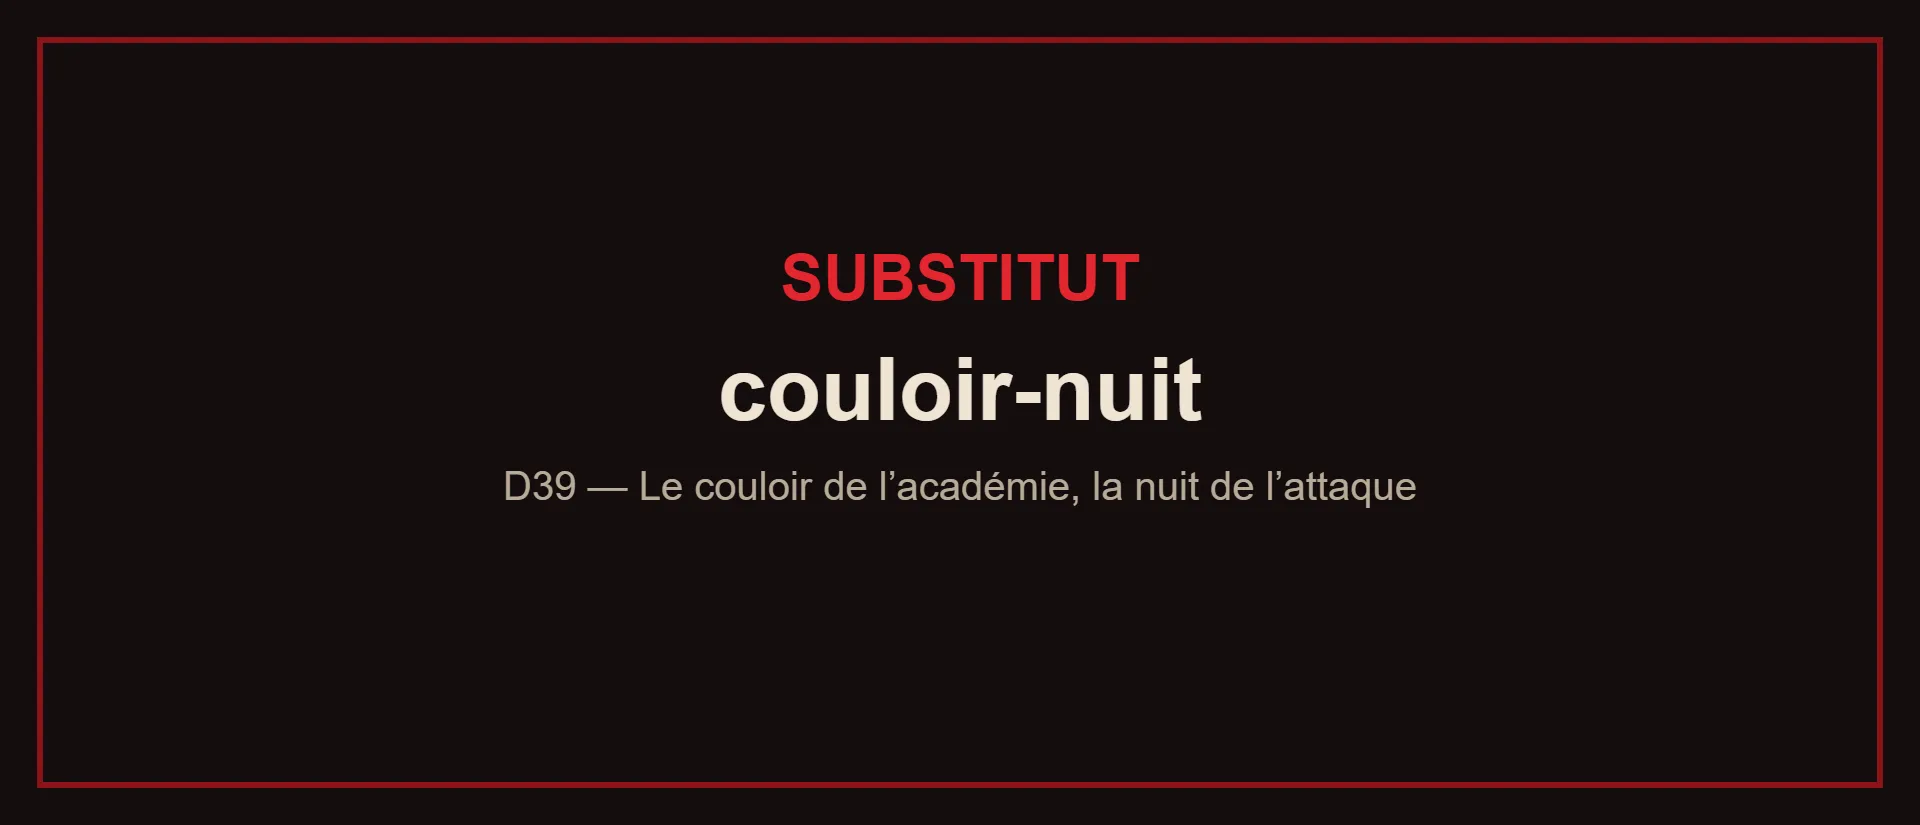
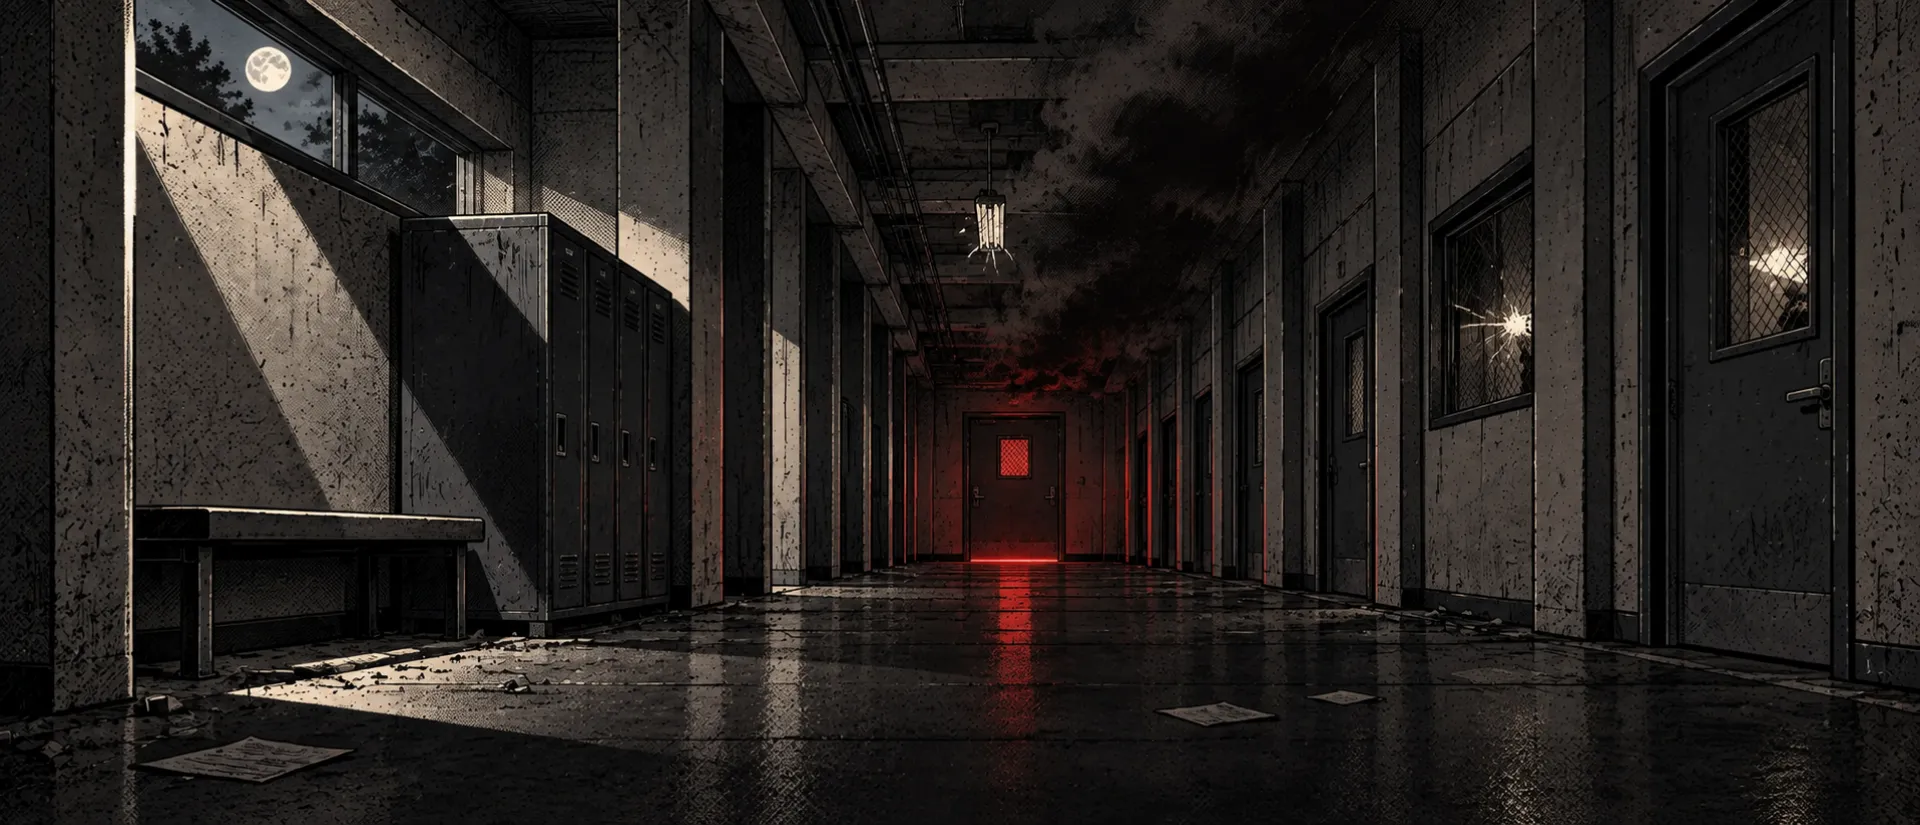
New pictures

diff --git a/docs/art/image-generation/MANIFEST.md b/docs/art/image-generation/MANIFEST.md
@@ -179,8 +179,8 @@ dortoir (`ch2.grille`) reprend `dortoirs` (D01). *Ces deux réemplois sont rempl
 
 | ID | Lieu · scène | Fichier livré | Références | État |
 |---|---|---|---|---|
-| D39 | Le couloir de ceinture de l'académie, la nuit de l'attaque · Scène 4, `ch2.fuite` (clé `couloir-nuit`, remplace `bal-entree`) | `public/assets/backdrops/couloir-nuit.webp` | décors D01 et D02 (l'académie), `Chapter2/BadlandsHoltenFeuPatrouilles.png` (le feu, la fumée), `Chapter2/AttaqueBoom.png` (l'éclair du tir, sans la discothèque) | à faire (substitut posé) |
-| D40 | La grille du dortoir, verrouillée, la nuit de l'attaque · Scène 4, `ch2.grille` (clé `grille-dortoir`, remplace `dortoirs`) | `public/assets/backdrops/grille-dortoir.webp` | décor D01 (le dortoir derrière la grille), décor D02, `Chapter2/BadlandsHoltenFeuPatrouilles.png` (la lueur du feu) | à faire (substitut posé) |
+| D39 | Le couloir de ceinture de l'académie, la nuit de l'attaque · Scène 4, `ch2.fuite` (clé `couloir-nuit`, remplace `bal-entree`) | `public/assets/backdrops/couloir-nuit.webp` | décors D01 et D02 (l'académie), `Chapter2/BadlandsHoltenFeuPatrouilles.png` (le feu, la fumée), `Chapter2/AttaqueBoom.png` (l'éclair du tir, sans la discothèque) | à valider |
+| D40 | La grille du dortoir, verrouillée, la nuit de l'attaque · Scène 4, `ch2.grille` (clé `grille-dortoir`, remplace `dortoirs`) | `public/assets/backdrops/grille-dortoir.webp` | décor D01 (le dortoir derrière la grille), décor D02, `Chapter2/BadlandsHoltenFeuPatrouilles.png` (la lueur du feu) | à valider |
 
 ## Plus tard (non planifié)
 
